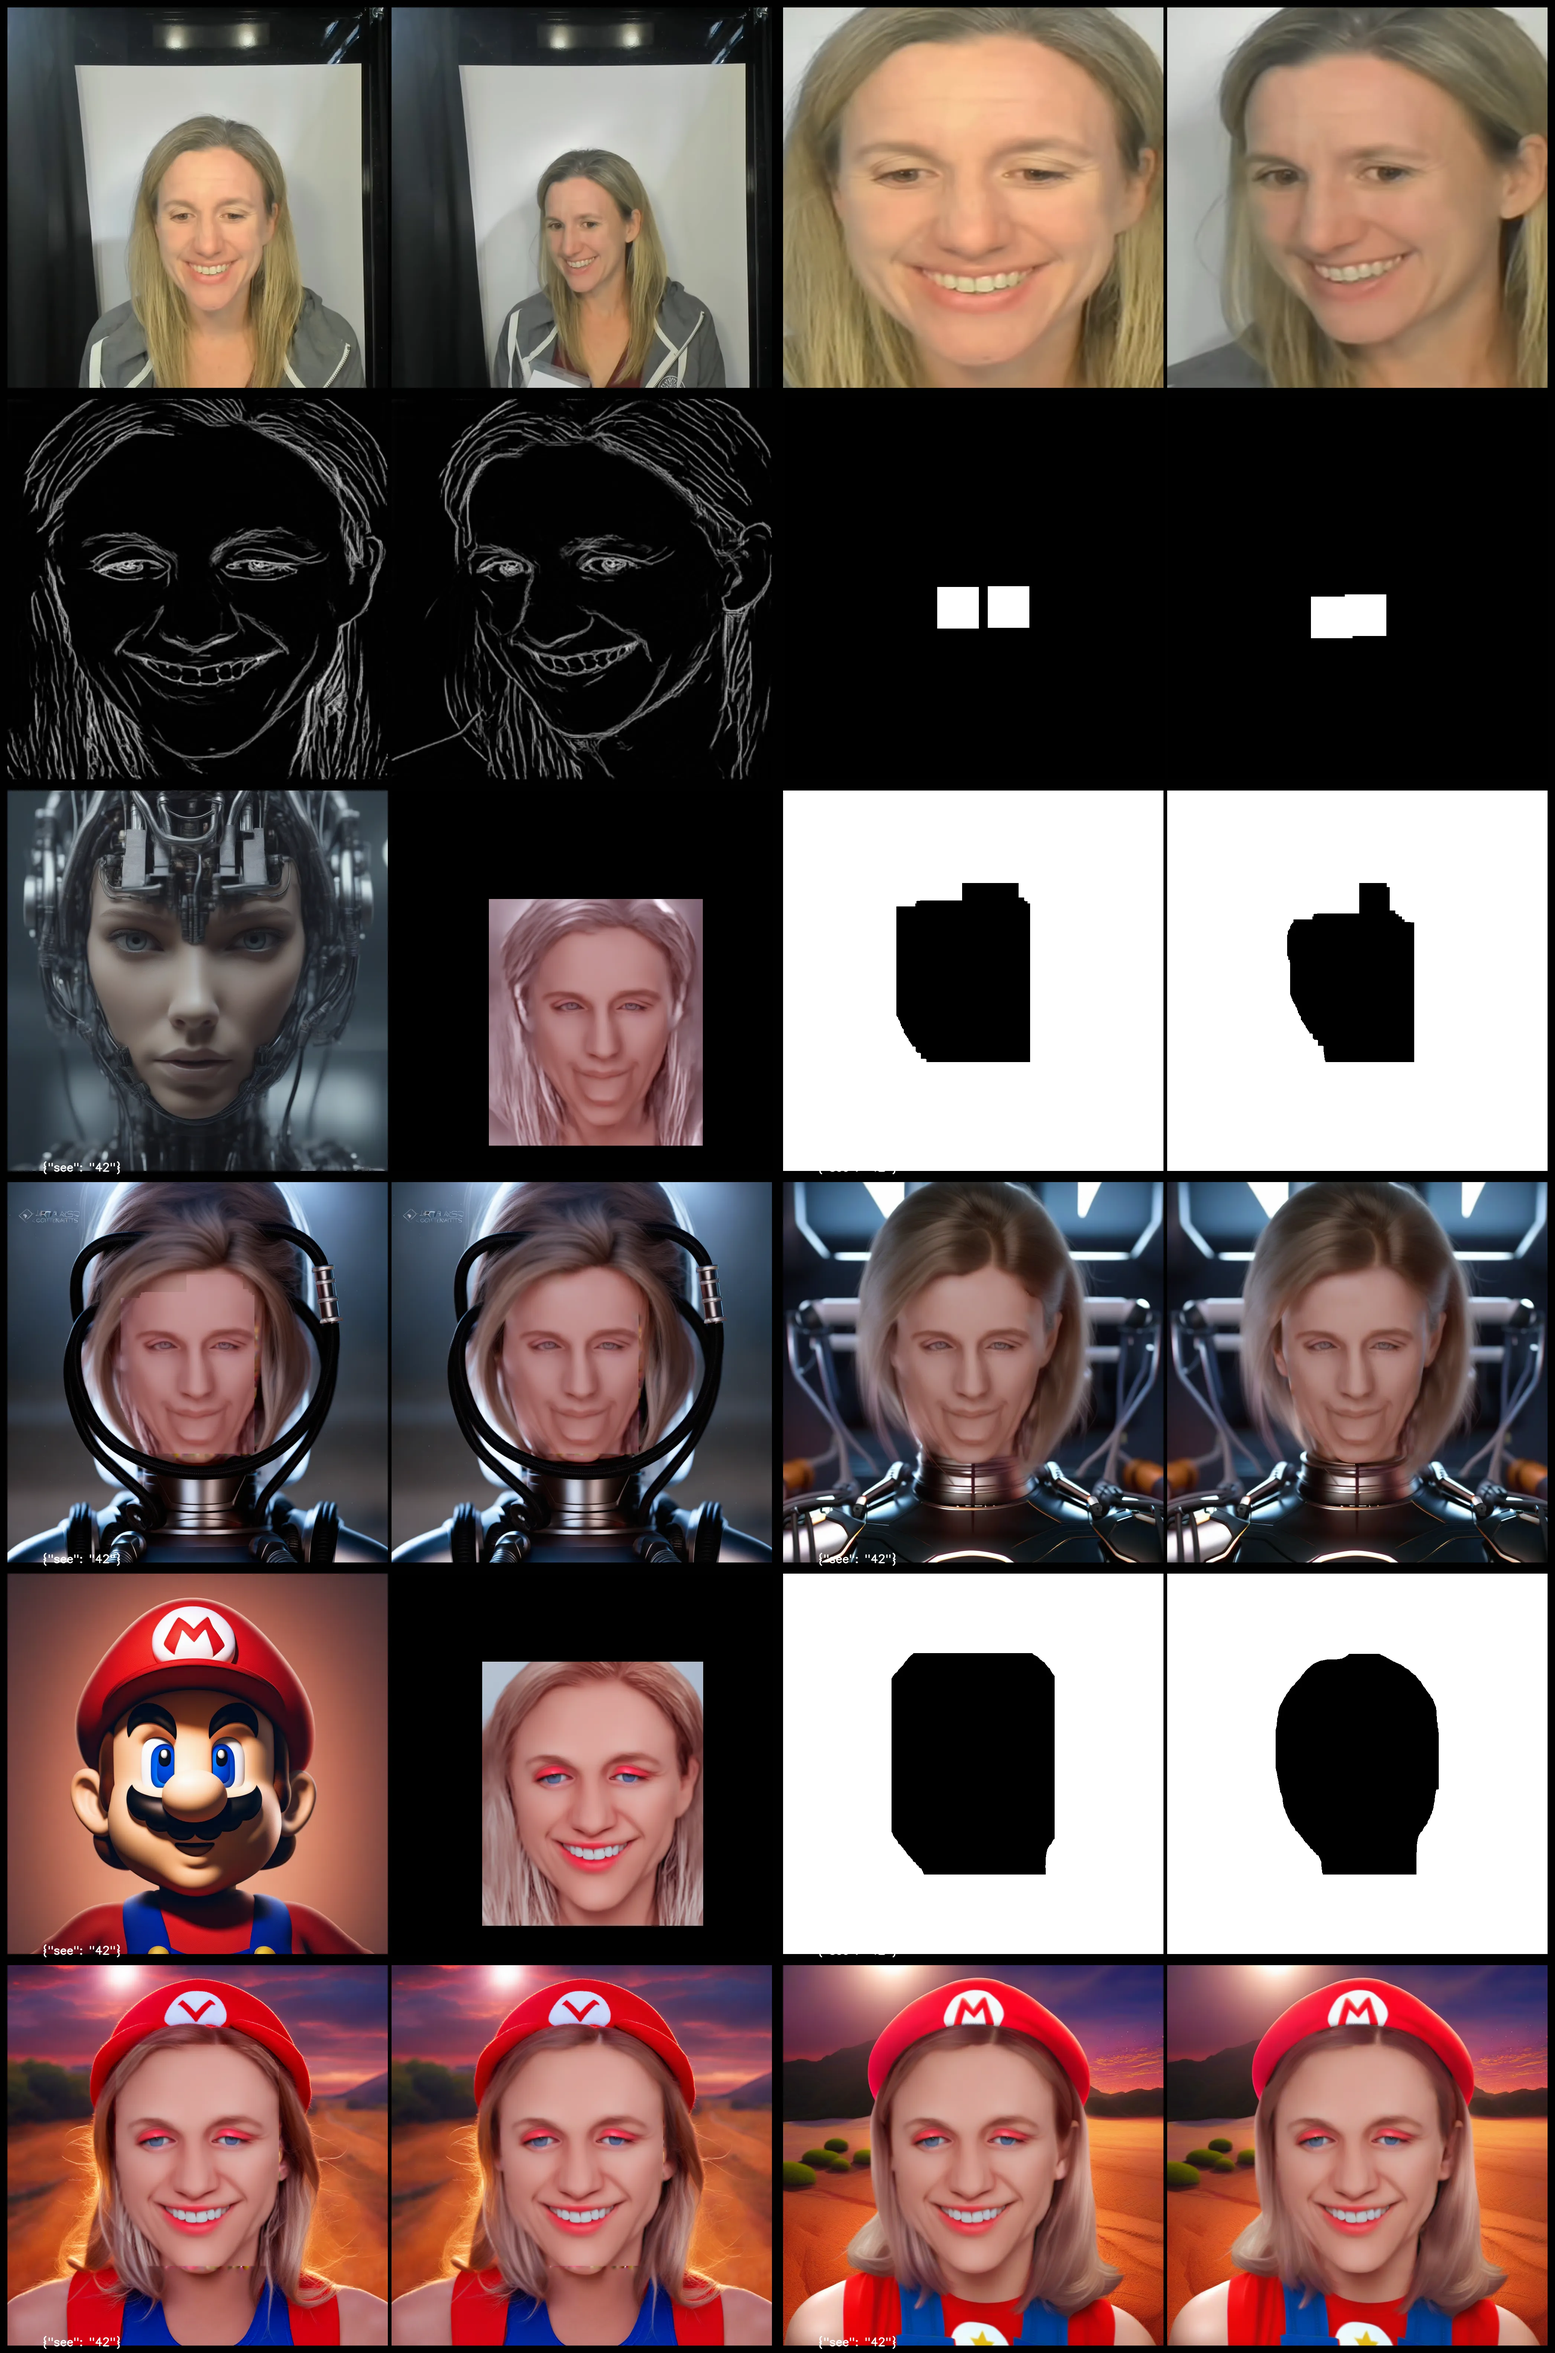
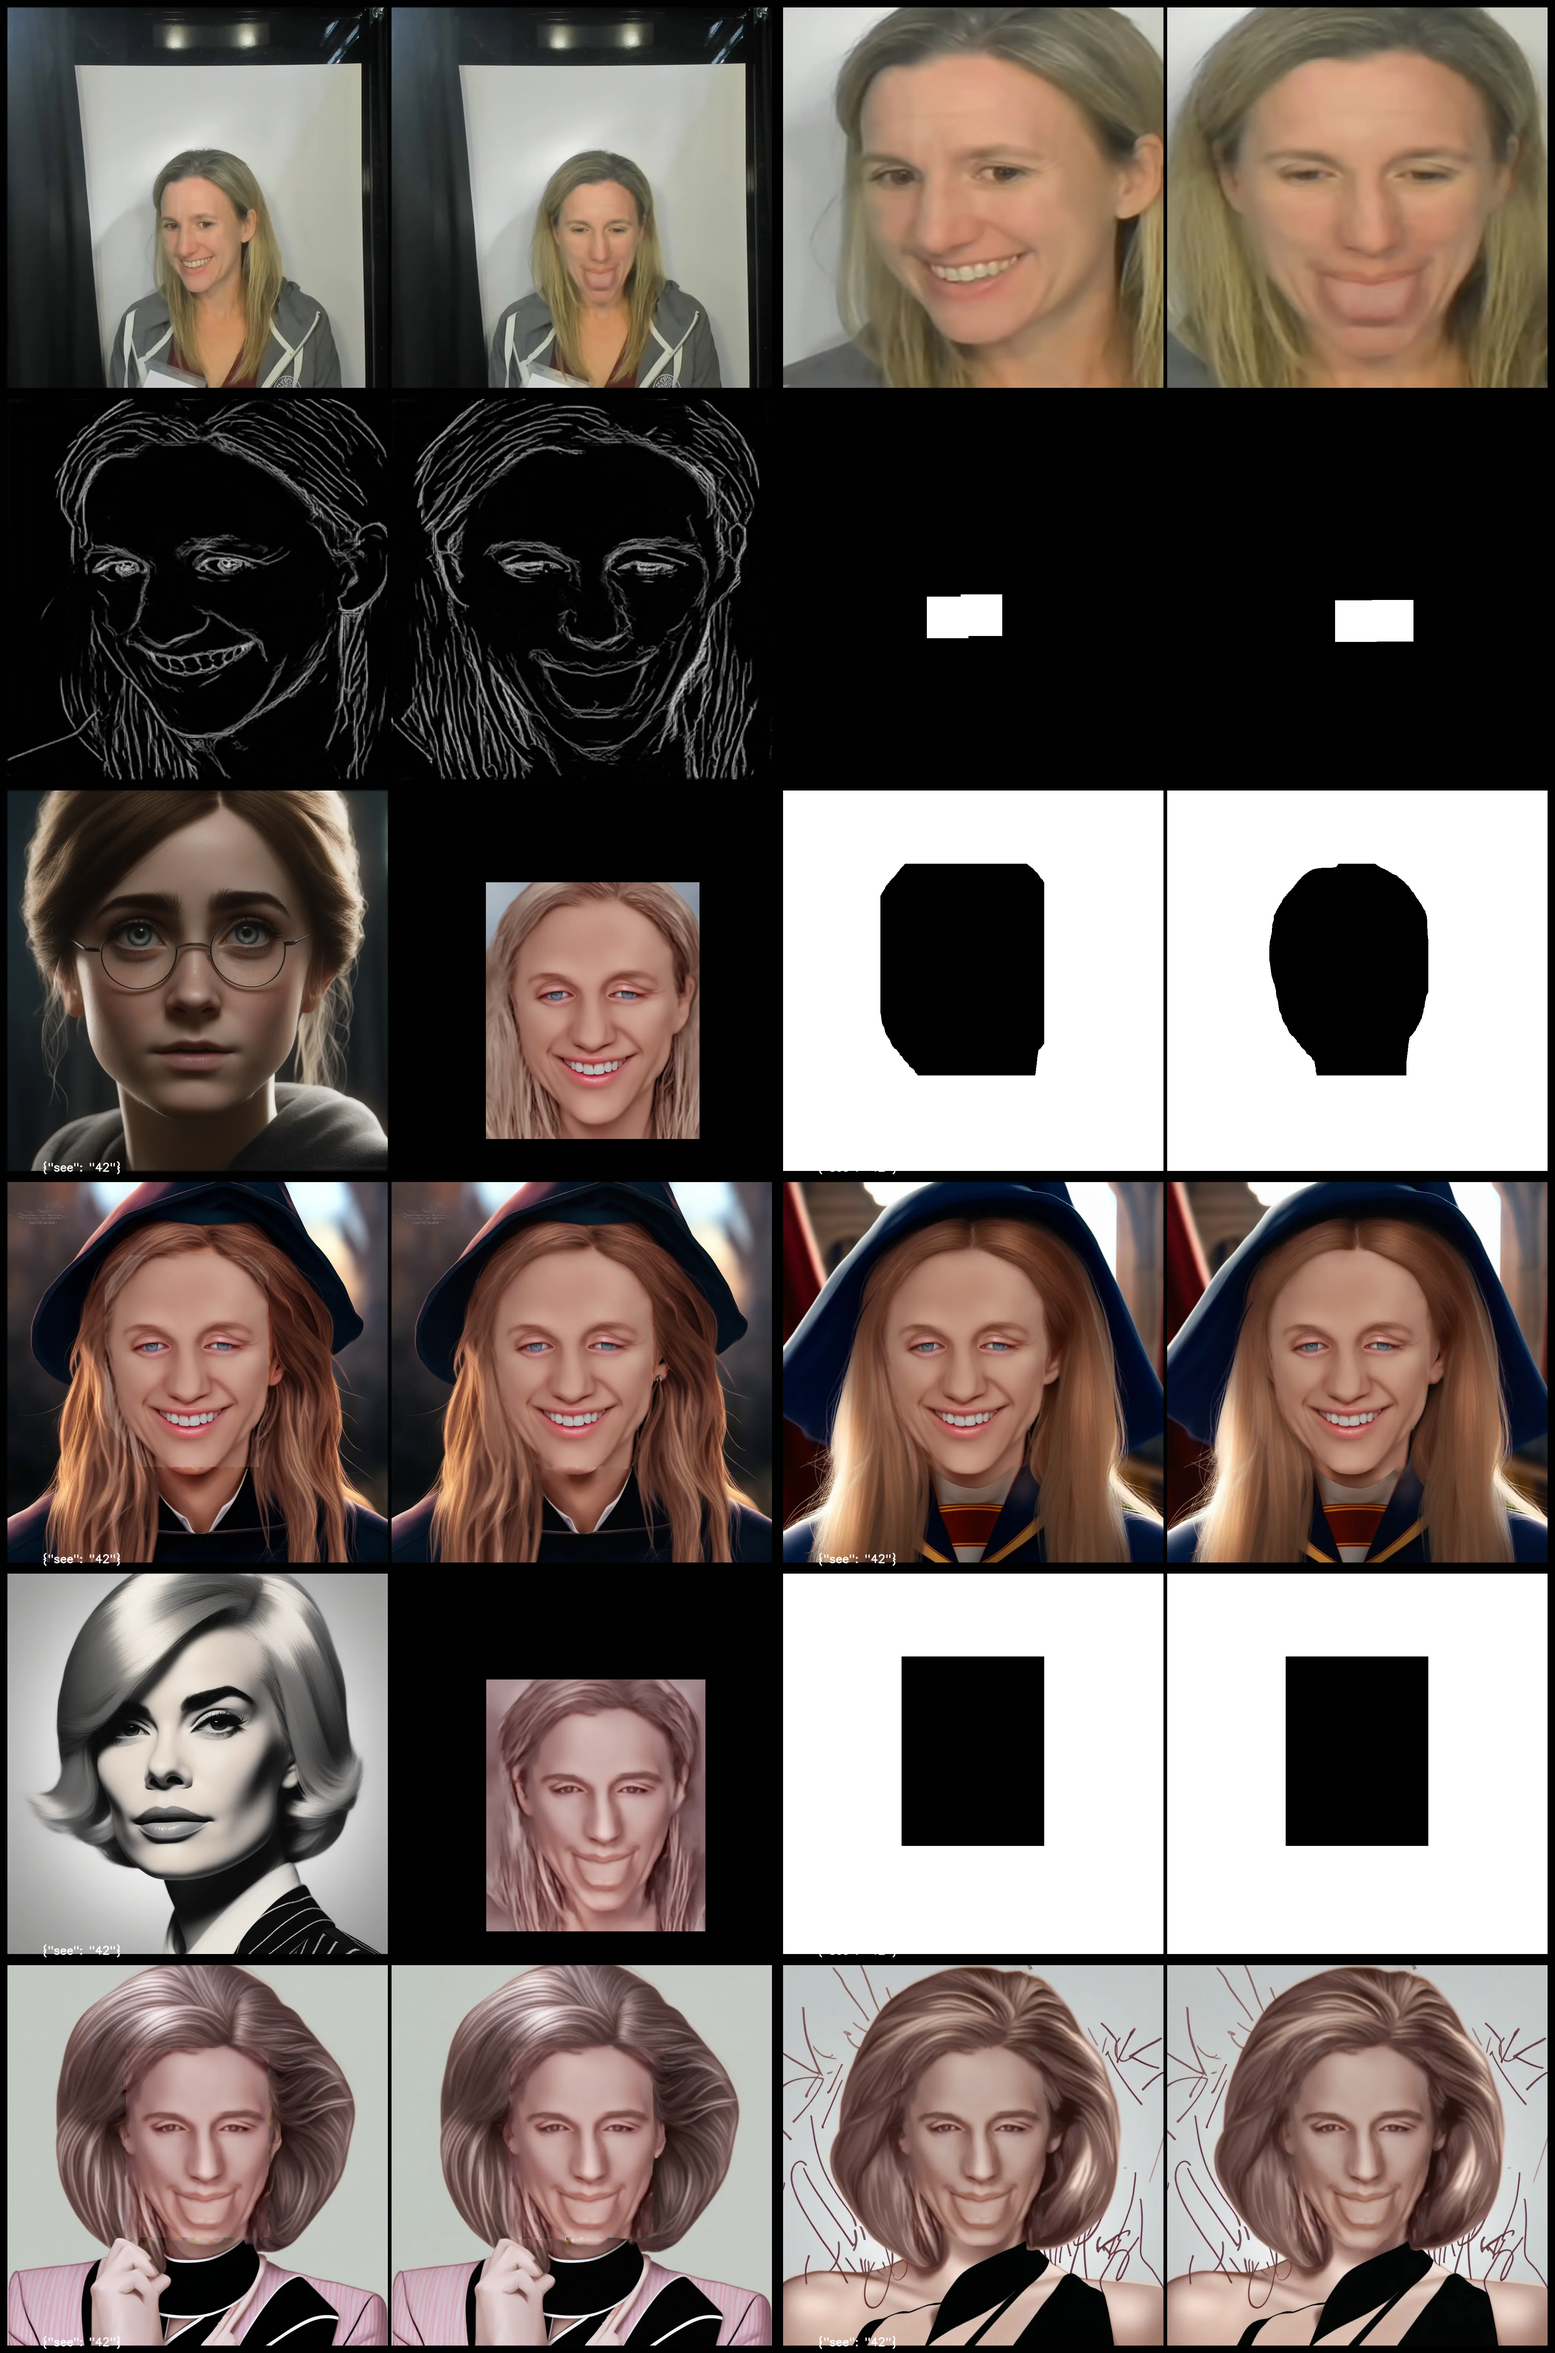
ok actually works now.

diff --git a/one_shot/params.py b/one_shot/params.py
@@ -167,7 +167,7 @@ class Params(BaseModel):
                 P("highly detailed", 3),
                 "white teeth",
                 "nice smile",
-                F("airbrushed", 0.5),
+                F("airbrushed", 0.2),
                 F("beautiful", 0.2),
                 F("dream", 0.2),
             ],
@@ -224,10 +224,10 @@ class Params(BaseModel):
     images: int = 4
 
     detect_resolution: int = 384
-    guidance_scale: float = 8.75
+    guidance_scale: float = 9.0
     refiner_strength = 0.05
     inpainting_strength = 0.40
-    conditioning_strength: tuple[float, float] = (1.79, 1.81)
+    conditioning_strength: tuple[float, float] = (1.82, 1.84)
     conditioning_factor: float = 1.0
     lora_scale = 0.4
     high_noise_frac: float = 0.85

diff --git a/one_shot/utils.py b/one_shot/utils.py
@@ -377,3 +377,15 @@ def detect_faces(img: Image.Image) -> Generator[Face, None, None]:
             eyes=Eyes(left=(0, 0), right=(0, 0)),
             landmarks=None,
         )
+
+
+def unsharp_mask(image, kernel_size=(5, 5), sigma=1.0, amount=1.0, threshold=0):
+    blurred = cv2.GaussianBlur(image, kernel_size, sigma)
+    sharpened = float(amount + 1) * image - float(amount) * blurred
+    sharpened = np.maximum(sharpened, np.zeros(sharpened.shape))
+    sharpened = np.minimum(sharpened, 255 * np.ones(sharpened.shape))
+    sharpened = sharpened.round().astype(np.uint8)
+    if threshold > 0:
+        low_contrast_mask = np.absolute(image - blurred) < threshold
+        np.copyto(sharpened, image, where=low_contrast_mask)
+    return sharpened

diff --git a/one_shot/dreambooth/request.py b/one_shot/dreambooth/request.py
@@ -28,6 +28,7 @@ from one_shot.utils import (
     grid,
     images,
     open_image,
+    unsharp_mask,
 )
 
 if TYPE_CHECKING:
@@ -59,8 +60,7 @@ class Request:
         logger.info("Loading controls...")
         for i, face in enumerate(self.face.primary_faces()):
             logger.debug(f"Loading controls for {i}...")
-            kernel = np.array([[-1, -1, -1], [-1, 9, -1], [-1, -1, -1]])
-            sharpened = cv2.filter2D(np.asarray(face), -1, kernel)
+            sharpened = unsharp_mask(np.asarray(face))
             yield self.dreambooth.models.detector(
                 to_pil_image(sharpened),
                 detect_resolution=self.dreambooth.params.detect_resolution,

diff --git a/one_shot/dreambooth/model.py b/one_shot/dreambooth/model.py
@@ -418,14 +418,6 @@ class ModelInstance:
             frame_bounds = Bounds.from_face(self.dims, frame_face)
             frame_mask, frame_og_mask = self._get_masks(frame, frame_face)
 
-            if frame_face.is_trivial:
-                mask = np.zeros(frame.shape, dtype=np.uint8)
-                yield self.faces[idx], (
-                    to_pil_image(mask, mode="RGB").convert("L"),
-                    to_pil_image(mask, mode="RGB").convert("L"),
-                )
-                return
-
             frame_mask = np.asarray(frame_mask.convert("RGB"))
             frame_og_mask = np.asarray(frame_og_mask.convert("RGB"))
 

diff --git a/one_shot/__init__.py b/one_shot/__init__.py
@@ -27,7 +27,7 @@ def _main():
                 # "ea829f9d41697757a51dfe49842652c6",
                 # "f09e2b714736a0a553d33448fd6d9ed5",
                 # "f314e6cb3429719e3bdca6ac28823ccc",
-                # "ca4b1e40984e7cc6f23777963e9ae76e",
+                "ca4b1e40984e7cc6f23777963e9ae76e",
                 # "d41d8cd98f00b204e9800998ecf8427e",
                 "9806ad626c78b3b4b1547c73cc627605",
                 "79c053cf2d6d3922be669f9b78f34b2a",

diff --git a/one_shot/modal/dreambooth.py b/one_shot/modal/dreambooth.py
@@ -28,7 +28,7 @@ class _Dreambooth(OneShotDreambooth):
             )
 
 
-@stub.cls(**{**fn_kwargs, "gpu": gpu.A100(count=4)})
+@stub.cls(**{**fn_kwargs, "gpu": gpu.A100(count=2)})
 class Dreambooth(_Dreambooth):
     @method()
     def tune(self, ids: list[str] = ["test"], params: dict = {}):

diff --git a/one_shot/__main__.py b/one_shot/__main__.py
@@ -9,7 +9,7 @@ def main():
 
 def test():
     Function.lookup(stub.name, "Dreambooth.generate").remote(
-        "79c053cf2d6d3922be669f9b78f34b2a"
+        "ca4b1e40984e7cc6f23777963e9ae76e"
     )
 
 
